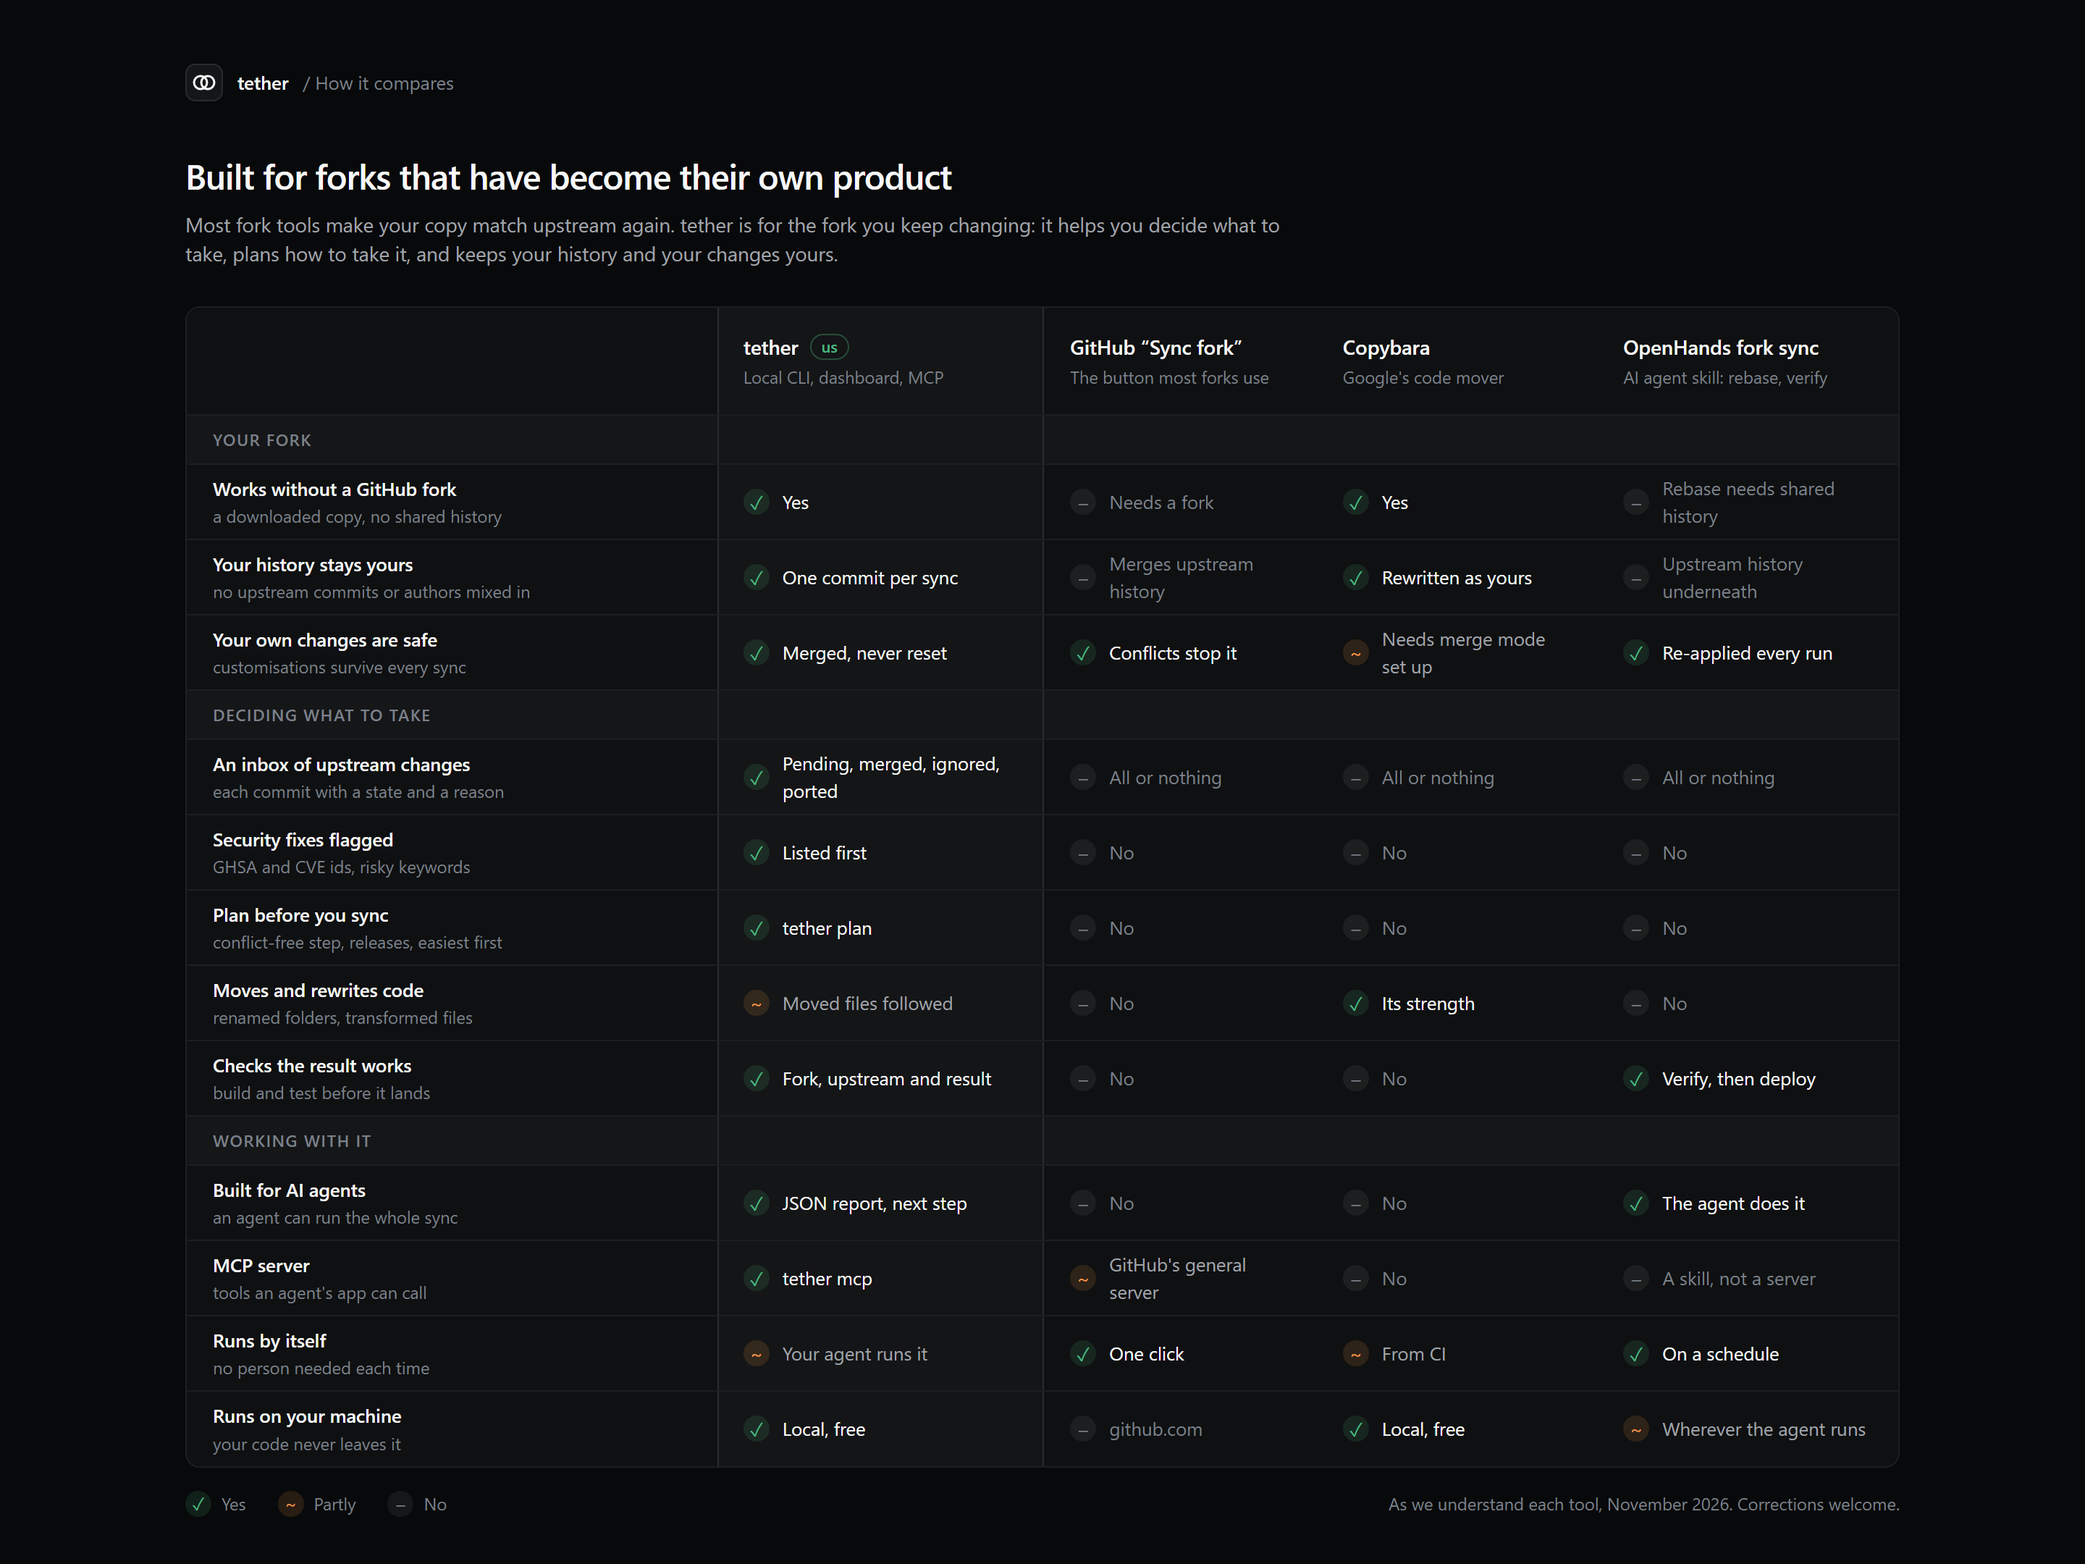
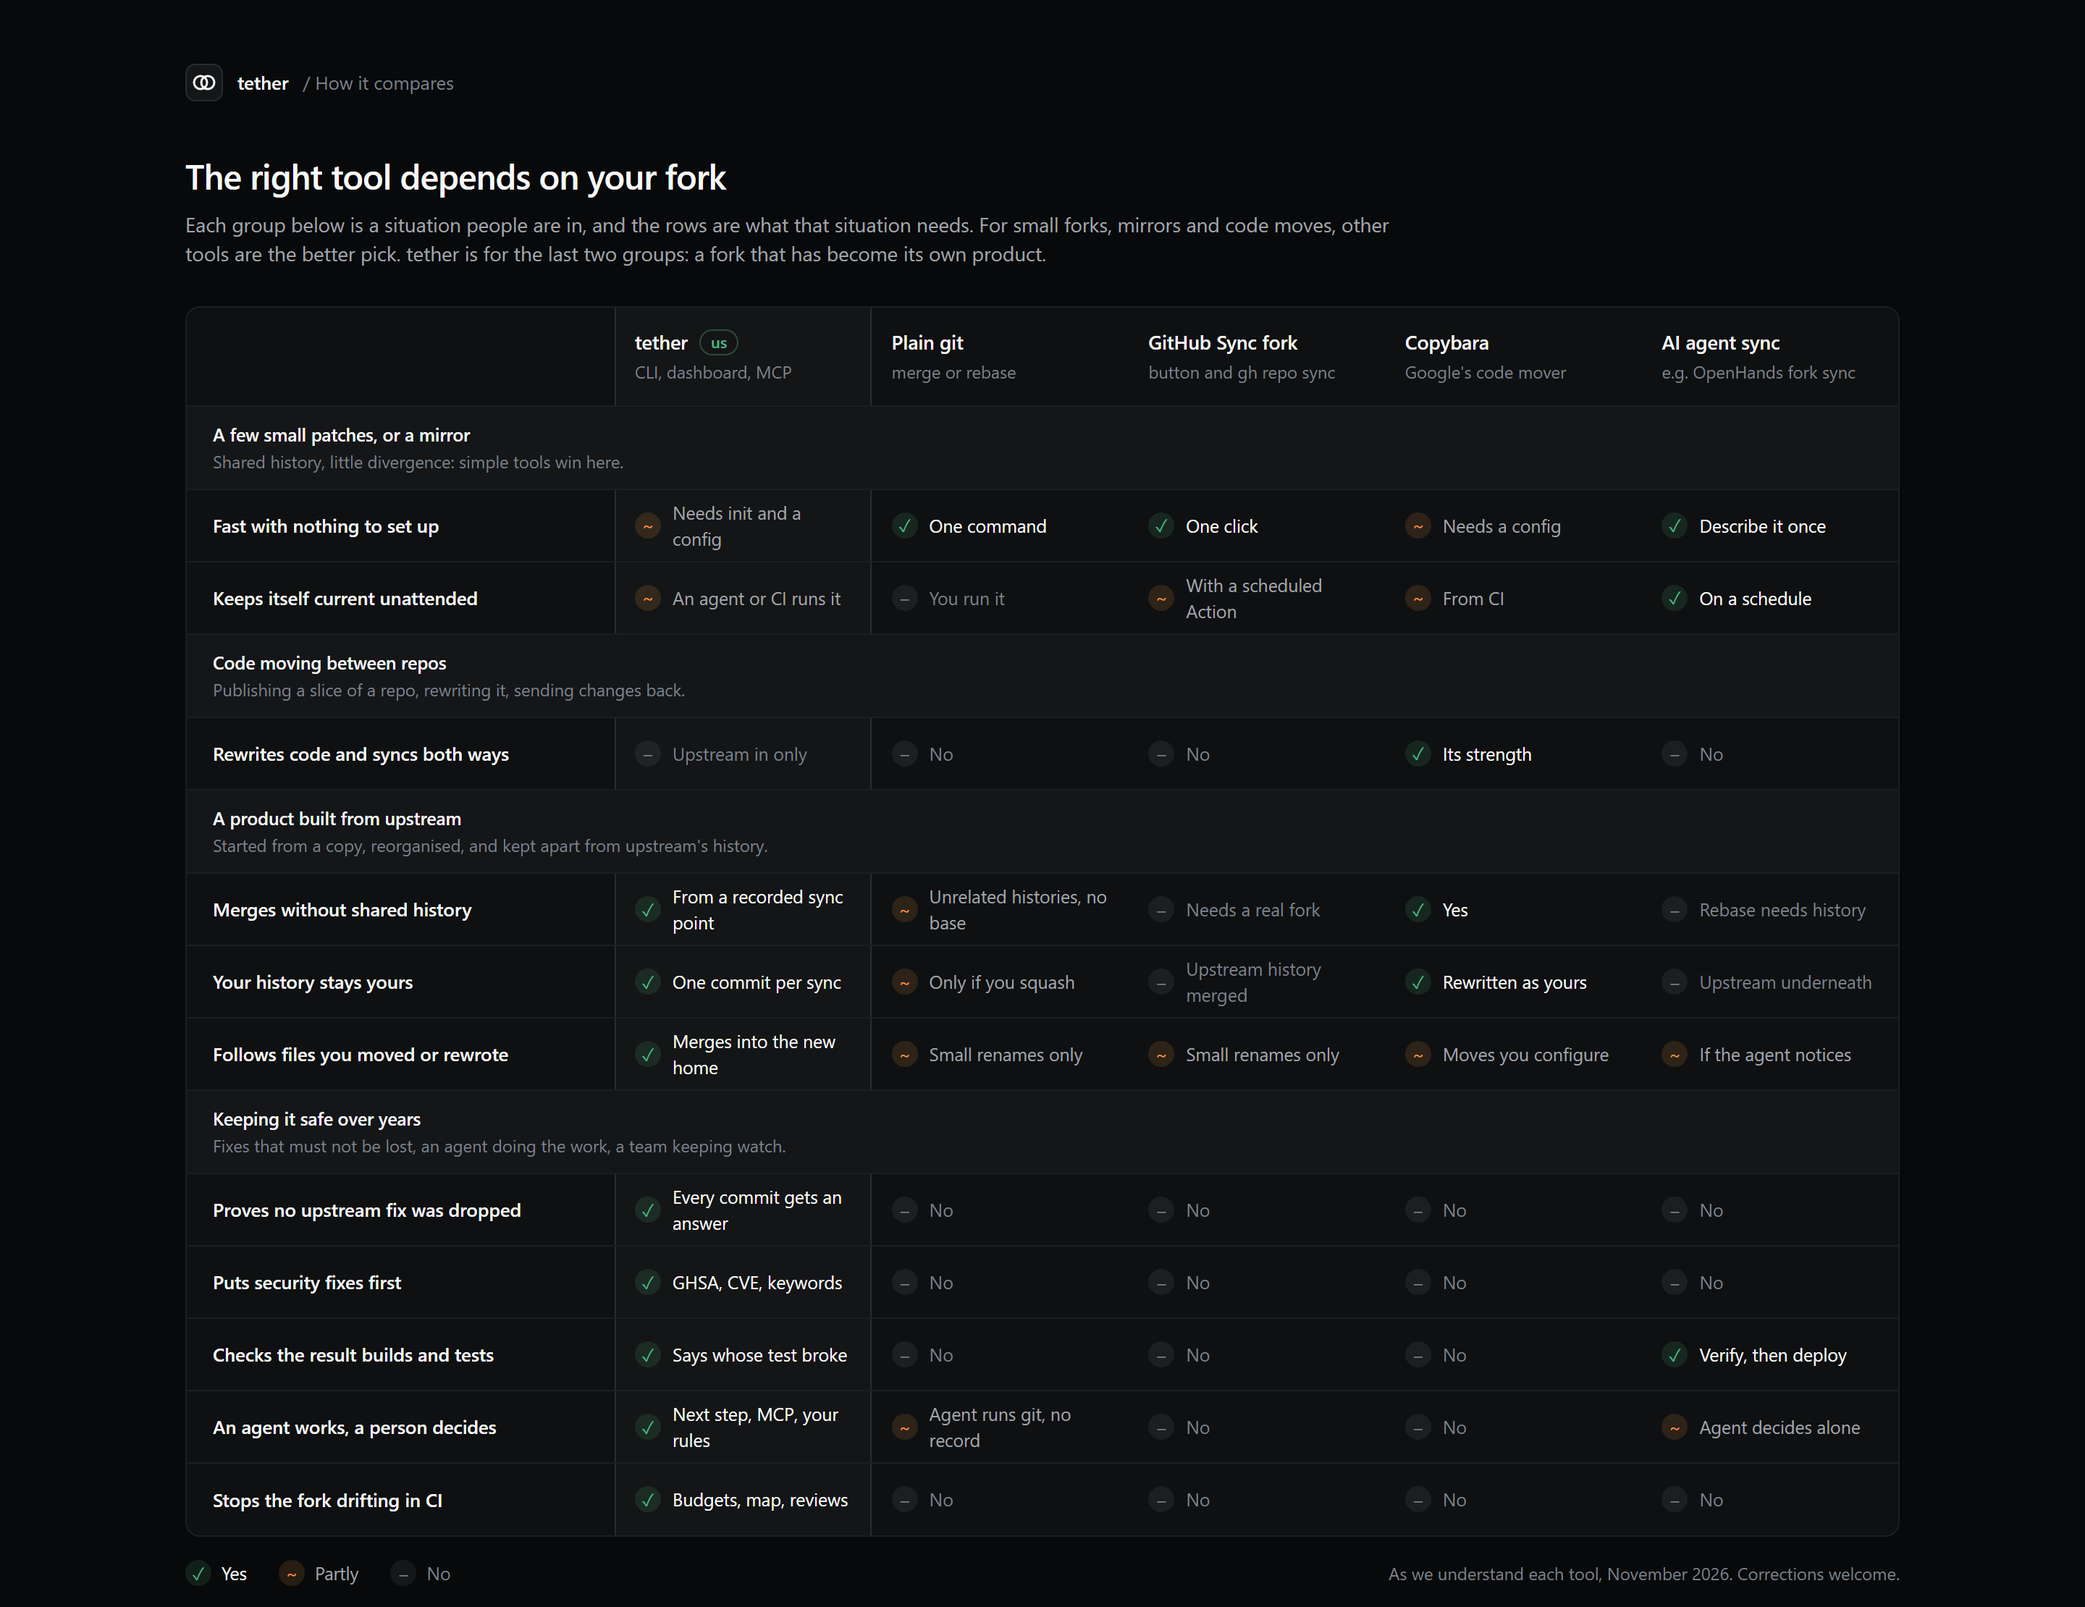
Compare tools by the situation each one suits
The table now starts from the situations people are in (small patches or a mirror, moving code between repos, a product built from upstream, keeping it safe for years) and compares plain git, GitHub Sync fork, Copybara and scheduled agent sync with tether on what each situation needs. Where simpler tools win, the table and README say so.

diff --git a/docs/compare/compare.html b/docs/compare/compare.html
@@ -1,14 +1,14 @@
 <!doctype html>
 <!-- The source of docs/screenshots/compare.png. Same look as `tether ui`.
-     Re-render: msedge --headless=new --screenshot=… --window-size=1440,1010
+     Re-render: msedge --headless=new --screenshot=<png> --window-size=1440,1300
      --force-device-scale-factor=2 docs/compare/compare.html -->
 <html lang="en">
 <head>
 <meta charset="utf-8">
 <title>tether compared</title>
 <style>
-:root{--font:Inter,"Inter Variable",ui-sans-serif,system-ui,-apple-system,"Segoe UI Variable Text","Segoe UI",sans-serif;--mono:"JetBrains Mono",ui-monospace,"Cascadia Code","SF Mono",Consolas,monospace;
---bg:#08090a;--panel:#0f1011;--raise:#151618;--line:#1d1e21;--line2:#2a2b2f;--tx:#f7f8f8;--tx2:#a0a4ab;--tx3:#7c8089;--ok:#4cb782;--warn:#f2994a;--bad:#eb5757;--info:#4ea7fc}
+:root{--font:Inter,"Inter Variable",ui-sans-serif,system-ui,-apple-system,"Segoe UI Variable Text","Segoe UI",sans-serif;
+--bg:#08090a;--panel:#0f1011;--raise:#151618;--line:#1d1e21;--line2:#2a2b2f;--tx:#f7f8f8;--tx2:#a0a4ab;--tx3:#7c8089;--ok:#4cb782;--warn:#f2994a}
 *{box-sizing:border-box}
 body{margin:0;background:var(--bg);color:var(--tx);font:13px/1.45 var(--font);letter-spacing:-.005em;-webkit-font-smoothing:antialiased}
 .wrap{max-width:1312px;margin:0 auto;padding:44px 64px 48px}
@@ -16,70 +16,67 @@ body{margin:0;background:var(--bg);color:var(--tx);font:13px/1.45 var(--font);le
 .logo{width:26px;height:26px;border-radius:7px;background:var(--raise);border:1px solid var(--line2);display:grid;place-items:center;color:var(--tx)}
 .top b{color:var(--tx);font-weight:600}
 h1{font-size:24px;font-weight:600;letter-spacing:-.02em;margin:0 0 6px}
-.lede{color:var(--tx2);margin:0 0 26px;font-size:14px;max-width:760px}
+.lede{color:var(--tx2);margin:0 0 26px;font-size:14px;max-width:860px}
 .card{background:var(--panel);border:1px solid var(--line);border-radius:10px;overflow:hidden}
-table{width:100%;border-collapse:collapse}
-th,td{text-align:left;padding:0 18px;border-bottom:1px solid var(--line);vertical-align:middle}
+table{width:100%;border-collapse:collapse;table-layout:fixed}
+th,td{text-align:left;padding:0 14px;border-bottom:1px solid var(--line);vertical-align:middle}
 tr:last-child td{border-bottom:0}
-thead th{height:74px;font-weight:500;color:var(--tx2);background:var(--panel)}
-thead th .n{display:block;color:var(--tx);font-size:14px;font-weight:600}
+thead th{height:68px;font-weight:500}
+thead th .n{display:flex;align-items:center;gap:8px;color:var(--tx);font-size:13.5px;font-weight:600}
 thead th .k{display:block;color:var(--tx3);font-size:12px;font-weight:400;margin-top:2px}
+col.f{width:25%}
 th.us,td.us{background:rgba(255,255,255,.025);box-shadow:inset 1px 0 0 var(--line2),inset -1px 0 0 var(--line2)}
-thead th.us .n{display:flex;align-items:center;gap:8px}
 .tag{font-size:11px;font-weight:500;color:var(--ok);border:1px solid rgba(76,183,130,.35);border-radius:9px;padding:0 7px;height:18px;display:inline-flex;align-items:center}
-td{height:52px}
-td.f{width:31%}
+td{height:50px}
+td.f{padding-left:18px}
 td.f b{display:block;font-weight:500}
-td.f span{display:block;color:var(--tx3);font-size:12px;margin-top:1px}
-.sec td{height:34px;background:var(--raise);color:var(--tx3);font-size:11.5px;font-weight:500;text-transform:uppercase;letter-spacing:.06em}
+.sec td{height:auto;padding:10px 18px;background:var(--raise);border-bottom:1px solid var(--line)}
 .sec td.us{background:var(--raise)}
-.v{display:flex;align-items:center;gap:9px;color:var(--tx2)}
-.v i{width:18px;height:18px;border-radius:50%;flex:none;display:grid;place-items:center;font-style:normal}
-.y i{background:rgba(76,183,130,.14);color:var(--ok)}
+.sec .h{color:var(--tx);font-weight:500;font-size:12.5px}
+.sec .d{color:var(--tx3);font-size:12px;margin-top:1px}
+.v{display:flex;align-items:center;gap:8px;color:var(--tx2);font-size:12.5px}
+.v i{width:18px;height:18px;border-radius:50%;flex:none;display:grid;place-items:center;font-style:normal;font-size:12px}
+.y{color:var(--tx)}.y i{background:rgba(76,183,130,.14);color:var(--ok)}
 .p i{background:rgba(242,153,74,.14);color:var(--warn)}
-.x i{background:rgba(124,128,137,.12);color:var(--tx3)}
-.y{color:var(--tx)}
-.x{color:var(--tx3)}
-svg{display:block}
-.foot{color:var(--tx3);font-size:12px;margin-top:16px;display:flex;gap:22px}
-.foot span{display:flex;align-items:center;gap:7px}
+.x{color:var(--tx3)}.x i{background:rgba(124,128,137,.12);color:var(--tx3)}
+.foot{color:var(--tx3);font-size:12px;margin-top:16px;display:flex;gap:22px;align-items:center}
+.foot>span{display:flex;align-items:center;gap:7px}
 </style>
 </head>
 <body>
 <div class="wrap">
   <div class="top"><div class="logo"><svg width="16" height="12" viewBox="0 0 16 12" fill="none" stroke="currentColor" stroke-width="1.5"><circle cx="5.5" cy="6" r="4.5"/><circle cx="10.5" cy="6" r="4.5"/></svg></div><b>tether</b><span>/ How it compares</span></div>
-  <h1>Built for forks that have become their own product</h1>
-  <p class="lede">Most fork tools make your copy match upstream again. tether is for the fork you keep changing: it helps you decide what to take, plans how to take it, and keeps your history and your changes yours.</p>
-  <div class="card">
-  <table id="t"></table>
-  </div>
-  <div class="foot"><span><i class="v y"><i>✓</i></i>Yes</span><span><i class="v p"><i>~</i></i>Partly</span><span><i class="v x"><i>–</i></i>No</span><span style="margin-left:auto">As we understand each tool, November 2026. Corrections welcome.</span></div>
+  <h1>The right tool depends on your fork</h1>
+  <p class="lede">Each group below is a situation people are in, and the rows are what that situation needs. For small forks, mirrors and code moves, other tools are the better pick. tether is for the last two groups: a fork that has become its own product.</p>
+  <div class="card"><table id="t"></table></div>
+  <div class="foot"><span class="v y"><i>✓</i>Yes</span><span class="v p"><i>~</i>Partly</span><span class="v x"><i>–</i>No</span><span style="margin-left:auto">As we understand each tool, November 2026. Corrections welcome.</span></div>
 </div>
 <script>
-const COLS=[["tether","Local CLI, dashboard, MCP",true],["GitHub “Sync fork”","The button most forks use",false],["Copybara","Google's code mover",false],["OpenHands fork sync","AI agent skill: rebase, verify",false]];
-// [feature, detail, [tether, github, copybara, openhands]] — each cell: [y|p|x, note]
+const COLS=[["tether","CLI, dashboard, MCP",true],["Plain git","merge or rebase",false],["GitHub Sync fork","button and gh repo sync",false],["Copybara","Google's code mover",false],["AI agent sync","e.g. OpenHands fork sync",false]];
+// Sections are situations; rows are what that situation needs.
+// Cells, in column order: [y|p|x, note].
 const ROWS=[
- ["Your fork"],
- ["Works without a GitHub fork","a downloaded copy, no shared history",[["y","Yes"],["x","Needs a fork"],["y","Yes"],["x","Rebase needs shared history"]]],
- ["Your history stays yours","no upstream commits or authors mixed in",[["y","One commit per sync"],["x","Merges upstream history"],["y","Rewritten as yours"],["x","Upstream history underneath"]]],
- ["Your own changes are safe","customisations survive every sync",[["y","Merged, never reset"],["y","Conflicts stop it"],["p","Needs merge mode set up"],["y","Re-applied every run"]]],
- ["Deciding what to take"],
- ["An inbox of upstream changes","each commit with a state and a reason",[["y","Pending, merged, ignored, ported"],["x","All or nothing"],["x","All or nothing"],["x","All or nothing"]]],
- ["Security fixes flagged","GHSA and CVE ids, risky keywords",[["y","Listed first"],["x","No"],["x","No"],["x","No"]]],
- ["Plan before you sync","conflict-free step, releases, easiest first",[["y","tether plan"],["x","No"],["x","No"],["x","No"]]],
- ["Moves and rewrites code","renamed folders, transformed files",[["p","Moved files followed"],["x","No"],["y","Its strength"],["x","No"]]],
- ["Checks the result works","build and test before it lands",[["y","Fork, upstream and result"],["x","No"],["x","No"],["y","Verify, then deploy"]]],
- ["Working with it"],
- ["Built for AI agents","an agent can run the whole sync",[["y","JSON report, next step"],["x","No"],["x","No"],["y","The agent does it"]]],
- ["MCP server","tools an agent's app can call",[["y","tether mcp"],["p","GitHub's general server"],["x","No"],["x","A skill, not a server"]]],
- ["Runs by itself","no person needed each time",[["p","Your agent runs it"],["y","One click"],["p","From CI"],["y","On a schedule"]]],
- ["Runs on your machine","your code never leaves it",[["y","Local, free"],["x","github.com"],["y","Local, free"],["p","Wherever the agent runs"]]],
+ ["A few small patches, or a mirror","Shared history, little divergence: simple tools win here."],
+ ["Fast with nothing to set up",[["p","Needs init and a config"],["y","One command"],["y","One click"],["p","Needs a config"],["y","Describe it once"]]],
+ ["Keeps itself current unattended",[["p","An agent or CI runs it"],["x","You run it"],["p","With a scheduled Action"],["p","From CI"],["y","On a schedule"]]],
+ ["Code moving between repos","Publishing a slice of a repo, rewriting it, sending changes back."],
+ ["Rewrites code and syncs both ways",[["x","Upstream in only"],["x","No"],["x","No"],["y","Its strength"],["x","No"]]],
+ ["A product built from upstream","Started from a copy, reorganised, and kept apart from upstream's history."],
+ ["Merges without shared history",[["y","From a recorded sync point"],["p","Unrelated histories, no base"],["x","Needs a real fork"],["y","Yes"],["x","Rebase needs history"]]],
+ ["Your history stays yours",[["y","One commit per sync"],["p","Only if you squash"],["x","Upstream history merged"],["y","Rewritten as yours"],["x","Upstream underneath"]]],
+ ["Follows files you moved or rewrote",[["y","Merges into the new home"],["p","Small renames only"],["p","Small renames only"],["p","Moves you configure"],["p","If the agent notices"]]],
+ ["Keeping it safe over years","Fixes that must not be lost, an agent doing the work, a team keeping watch."],
+ ["Proves no upstream fix was dropped",[["y","Every commit gets an answer"],["x","No"],["x","No"],["x","No"],["x","No"]]],
+ ["Puts security fixes first",[["y","GHSA, CVE, keywords"],["x","No"],["x","No"],["x","No"],["x","No"]]],
+ ["Checks the result builds and tests",[["y","Says whose test broke"],["x","No"],["x","No"],["x","No"],["y","Verify, then deploy"]]],
+ ["An agent works, a person decides",[["y","Next step, MCP, your rules"],["p","Agent runs git, no record"],["x","No"],["x","No"],["p","Agent decides alone"]]],
+ ["Stops the fork drifting in CI",[["y","Budgets, map, reviews"],["x","No"],["x","No"],["x","No"],["x","No"]]],
 ];
 const icon={y:"✓",p:"~",x:"–"};
-let h="<thead><tr><th></th>"+COLS.map(([n,k,us])=>`<th class="${us?"us":""}"><span class="n">${n}${us?'<span class="tag">us</span>':""}</span><span class="k">${k}</span></th>`).join("")+"</tr></thead><tbody>";
+let h=`<colgroup><col class="f">${COLS.map(()=>"<col>").join("")}</colgroup><thead><tr><th></th>`+COLS.map(([n,k,us])=>`<th class="${us?"us":""}"><span class="n">${n}${us?'<span class="tag">us</span>':""}</span><span class="k">${k}</span></th>`).join("")+"</tr></thead><tbody>";
 for(const r of ROWS){
-  if(r.length===1){h+=`<tr class="sec"><td>${r[0]}</td>${COLS.map(([,,us])=>`<td class="${us?"us":""}"></td>`).join("")}</tr>`;continue}
-  h+=`<tr><td class="f"><b>${r[0]}</b><span>${r[1]}</span></td>`+r[2].map(([k,note],i)=>`<td class="${i===0?"us":""}"><span class="v ${k}"><i>${icon[k]}</i>${note}</span></td>`).join("")+"</tr>";
+  if(typeof r[1]==="string"){h+=`<tr class="sec"><td colspan="${COLS.length+1}"><div class="h">${r[0]}</div><div class="d">${r[1]}</div></td></tr>`;continue}
+  h+=`<tr><td class="f"><b>${r[0]}</b></td>`+r[1].map(([k,note],i)=>`<td class="${i===0?"us":""}"><span class="v ${k}"><i>${icon[k]}</i>${note}</span></td>`).join("")+"</tr>";
 }
 document.getElementById("t").innerHTML=h+"</tbody>";
 </script>

diff --git a/README.md b/README.md
@@ -72,20 +72,29 @@ changes, owned areas, drift, ports and reviews.
 
 ## How it compares
 
-Most fork tools make your copy match upstream again. tether is for the fork
-that has become its own product, where you choose what to take and keep your
-own changes and history. Here it is next to the strongest alternatives:
-GitHub's built-in Sync fork button, Google's
-[Copybara](https://github.com/google/copybara), and the OpenHands
-[upstream fork sync](https://www.skills.sh/openhands/extensions/upstream-fork-sync)
-agent skill.
+The right tool depends on the fork you have. The table groups what people need
+by situation, and compares tether with what people in each situation use
+today: plain git, GitHub's Sync fork,
+[Copybara](https://github.com/google/copybara), and AI agents that rebase on a
+schedule, such as OpenHands'
+[upstream fork sync](https://www.skills.sh/openhands/extensions/upstream-fork-sync).
 
-![tether compared with GitHub Sync fork, Copybara and OpenHands fork sync](docs/screenshots/compare.png)
+![tether compared with plain git, GitHub Sync fork, Copybara and AI agent sync, grouped by situation](docs/screenshots/compare.png)
 
-Copybara is the better choice when you mostly need to move and rewrite code
-between repositories. A scheduled agent rebase suits a fork that stays close to
-upstream and shares its history. Spotted something wrong? Open an issue. The
-table's source is [docs/compare/compare.html](docs/compare/compare.html).
+In short:
+
+- **A few small patches, or a mirror:** use git or GitHub's button. They're
+  quicker, and tether would be more setup than you need.
+- **Moving or rewriting code between repositories:** use Copybara.
+- **A fork near upstream that should sync itself:** a scheduled agent rebase
+  fits well.
+- **A product built from upstream, kept for years:** this is tether's case.
+  Use it when the fork started from a copy, moved or rewrote upstream's files,
+  must never silently lose an upstream fix, or is kept up by an agent with a
+  person making the key calls.
+
+Spotted something wrong? Open an issue. The table's source is
+[docs/compare/compare.html](docs/compare/compare.html).
 
 ## Try it
 
